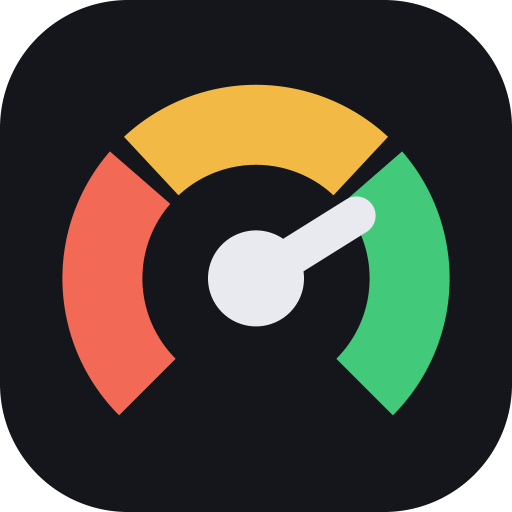
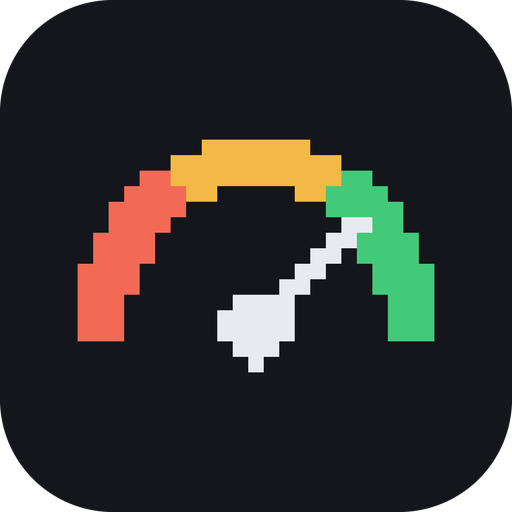
Пиксельные логотипы: сайт и разделы Мнение, Колесо, Тир-листы
- /art/logo/*.svg: пиксельные логотипы на настоящей сетке (из концепта Higgsfield), спидометр сайта сохранён
- фавиконки: общая (favicon.svg/.ico, иконки телефона и приложения, ?v=3) и свои у Мнения, Колеса (и лотов) и Тир-листов
- логотип в шапке главной, значки в карточках разделов, значок над заголовком страниц разделов (.title-logo в base.css)
- «Что нового» 1.15: абзац про логотипы

diff --git a/index.html b/index.html
@@ -14,9 +14,9 @@
 <meta property="og:image:height" content="630">
 <meta name="twitter:card" content="summary_large_image">
 <title>Казуал Хаб</title>
-<link rel="icon" href="/favicon.ico?v=2" sizes="48x48">
-<link rel="icon" type="image/svg+xml" href="/favicon.svg?v=2">
-<link rel="apple-touch-icon" href="/apple-touch-icon.png?v=2">
+<link rel="icon" href="/favicon.ico?v=3" sizes="48x48">
+<link rel="icon" type="image/svg+xml" href="/favicon.svg?v=3">
+<link rel="apple-touch-icon" href="/apple-touch-icon.png?v=3">
 <link rel="manifest" href="/site.webmanifest">
 <link rel="preconnect" href="https://fonts.googleapis.com">
 <link rel="preconnect" href="https://fonts.gstatic.com" crossorigin>
@@ -230,14 +230,11 @@ h1, h2, p { margin: 0; }
 .top { display: flex; flex-wrap: wrap; align-items: center; justify-content: space-between; gap: 12px; animation: drop-in .6s var(--out) backwards; }
 @keyframes drop-in { from { transform: translateY(-16px); } }
 .mark { display: inline-flex; align-items: center; gap: 10px; font-family: var(--font-display); font-weight: 700; font-size: 22px; text-decoration: none; letter-spacing: .02em; border-radius: 10px; }
-.mark svg { width: 32px; height: 32px; transition: transform .5s var(--spring); }
-.mark:hover svg { transform: rotate(-8deg) scale(1.08); }
-/* The logo assembles itself: the scale draws from red to green, then the needle swings over to green */
-.mark .lg-arc { stroke-dasharray: 1; animation: lg-draw .3s ease-out backwards; }
-.mark .lg-arc:nth-child(1) { animation-delay: .1s; } .mark .lg-arc:nth-child(2) { animation-delay: .25s; } .mark .lg-arc:nth-child(3) { animation-delay: .4s; }
-@keyframes lg-draw { from { stroke-dashoffset: 1; } }
-.mark .lg-needle { transform-box: view-box; transform-origin: 16px 17.4px; animation: lg-swing .8s var(--spring) .35s backwards; }
-@keyframes lg-swing { from { transform: rotate(-190deg); } }
+.mark img { width: 32px; height: 32px; transition: transform .5s var(--spring); }
+.mark:hover img { transform: rotate(-8deg) scale(1.08); }
+/* пиксельный логотип (/art/logo/hub.svg) появляется ступенькой, как спрайт */
+.mark img { animation: lg-pop .5s steps(3, jump-end) .1s backwards; }
+@keyframes lg-pop { from { transform: scale(.4); opacity: 0; } }
 .online-chip { cursor: default; }
 .user-bar { display: flex; flex-wrap: wrap; align-items: center; justify-content: flex-end; gap: 8px; flex: 1 1 auto; } /* прижата вправо и под логотипом: кнопку «Что нового» не двигает то, что дорисовывается левее */
 #account { display: contents; }
@@ -344,7 +341,7 @@ h1, h2, p { margin: 0; }
   .hero-art i:nth-child(4) { --mx: 140px; --my: 6px; --ms: 38px; }
   .hero-art i:nth-child(n+5) { display: none; }
 }
-@media (prefers-reduced-motion: reduce) { .hero-art i { animation: none; } }
+@media (prefers-reduced-motion: reduce) { .hero-art i, .mark img { animation: none; } }
 html.unslop .hero-art i { animation: none; filter: none; }
 
 /* App cards: a live preview on top, the name under it, the footer with counters */
@@ -517,7 +514,7 @@ html.unslop .hero-art i { animation: none; filter: none; }
 .feed-empty a { color: var(--accent); font-weight: 600; }
 
 .app-icon { width: 52px; height: 52px; border-radius: 14px; display: grid; place-items: center; transition: transform .5s var(--spring); }
-.app-icon svg { width: 100%; height: 100%; }
+.app-icon img { width: 100%; height: 100%; }
 .app:hover .app-icon { transform: rotate(-6deg) scale(1.06); }
 .app-text { display: grid; gap: 4px; min-width: 0; align-content: start; }
 .app-name { font-family: var(--font-display); font-weight: 800; font-size: clamp(32px, 4.2vw, 42px); line-height: .9; }
@@ -614,7 +611,7 @@ html.unslop body::before { display: none; }
 <div class="page">
   <header class="top">
     <a class="mark" href="/" aria-label="Казуал Хаб, главная">
-      <svg viewBox="0 0 32 32" aria-hidden="true"><rect width="32" height="32" rx="8" fill="#14161C"/><g fill="none" stroke-width="5"><path class="lg-arc" pathLength="1" d="M9.21 24.19A9.6 9.6 0 0 1 8.75 11.1" stroke="#F26A55"/><path class="lg-arc" pathLength="1" d="M9.45 10.38A9.6 9.6 0 0 1 22.55 10.38" stroke="#F2BA44"/><path class="lg-arc" pathLength="1" d="M23.25 11.1A9.6 9.6 0 0 1 22.79 24.19" stroke="#43C97A"/></g><g class="lg-needle"><path d="M16 17.4L22.28 13.48" fill="none" stroke="#E8EAF0" stroke-width="2.4" stroke-linecap="round"/><circle cx="16" cy="17.4" r="3" fill="#E8EAF0"/></g></svg>
+      <img src="/art/logo/hub.svg" width="32" height="32" alt="">
       casualhub
     </a>
     <div class="user-bar">
@@ -655,7 +652,7 @@ html.unslop body::before { display: none; }
     <a class="app" href="/opinion/">
       <span class="glow" aria-hidden="true"><i></i></span>
       <span class="pv pv-board" id="mnPreview" aria-hidden="true"></span>
-      <span class="app-icon" aria-hidden="true"><svg viewBox="0 0 256 256"><rect width="256" height="256" rx="58" fill="#14161C"/><rect x="34" y="104" width="38" height="48" rx="11" fill="#F26A55"/><rect x="80" y="104" width="38" height="48" rx="11" fill="#F2BA44"/><rect x="126" y="104" width="38" height="48" rx="11" fill="#43C97A"/><rect x="172" y="46" width="50" height="164" rx="16" fill="#43C97A"/><rect x="186" y="102" width="7" height="52" rx="3.5" fill="#14161C" fill-opacity=".5"/><rect x="201" y="102" width="7" height="52" rx="3.5" fill="#14161C" fill-opacity=".5"/></svg></span>
+      <span class="app-icon" aria-hidden="true"><img src="/art/logo/opinion.svg" width="52" height="52" alt=""></span>
       <span class="app-text">
         <span class="app-name">Мнение Казуала</span>
         <span class="app-desc">Игры, фильмы, еда, места или что угодно своё. Критерии, рейтинг, тиры, статистика и оценки друзей.</span>
@@ -667,7 +664,7 @@ html.unslop body::before { display: none; }
       <span class="pv pv-wheel" aria-hidden="true">
         <span class="wheel" id="wheel"></span>
       </span>
-      <span class="app-icon" aria-hidden="true"><svg viewBox="0 0 256 256"><rect width="256" height="256" rx="58" fill="#14161C"/><path d="M137.00 114.02L137.00 32.02A82 82 0 0 1 208.01 73.02Z" fill="#43C97A" stroke="#14161C" stroke-width="9" stroke-linejoin="round"/><path d="M122.00 140.00L193.01 99.00A82 82 0 0 1 193.01 181.00Z" fill="#F2BA44" stroke="#14161C" stroke-width="9" stroke-linejoin="round"/><path d="M122.00 140.00L193.01 181.00A82 82 0 0 1 122.00 222.00Z" fill="#F26A55" stroke="#14161C" stroke-width="9" stroke-linejoin="round"/><path d="M122.00 140.00L122.00 222.00A82 82 0 0 1 50.99 181.00Z" fill="#43C97A" stroke="#14161C" stroke-width="9" stroke-linejoin="round"/><path d="M122.00 140.00L50.99 181.00A82 82 0 0 1 50.99 99.00Z" fill="#F2BA44" stroke="#14161C" stroke-width="9" stroke-linejoin="round"/><path d="M122.00 140.00L50.99 99.00A82 82 0 0 1 122.00 58.00Z" fill="#F26A55" stroke="#14161C" stroke-width="9" stroke-linejoin="round"/><circle cx="122" cy="140" r="22" fill="#8C9BFF" stroke="#14161C" stroke-width="9"/></svg></span>
+      <span class="app-icon" aria-hidden="true"><img src="/art/logo/wheel.svg" width="52" height="52" alt=""></span>
       <span class="app-text">
         <span class="app-name">Колесо Казуала</span>
         <span class="app-desc">На выбывание или один победитель с одной прокрутки, шансы у всех равные. Своя музыка, стикеры в центре и лоты по ссылке: друзья предлагают, колесо выбирает.</span>
@@ -677,7 +674,7 @@ html.unslop body::before { display: none; }
     <a class="app" href="/tierlist/">
       <span class="glow" aria-hidden="true"><i></i></span>
       <span class="pv pv-tiers" aria-hidden="true"><span class="pv-tier"><i style="background:#43C97A"></i><span><b style="--j:0"></b><b style="--j:1"></b><b style="--j:2"></b></span></span><span class="pv-tier"><i style="background:#F2BA44"></i><span><b style="--j:0"></b><b style="--j:1"></b><b style="--j:2"></b><b style="--j:3"></b><b style="--j:4"></b></span></span><span class="pv-tier"><i style="background:#F28E4C"></i><span><b style="--j:0"></b><b style="--j:1"></b></span></span><span class="pv-tier"><i style="background:#F26A55"></i><span><b style="--j:0"></b><b style="--j:1"></b><b style="--j:2"></b><b style="--j:3"></b></span></span></span>
-      <span class="app-icon" aria-hidden="true"><svg viewBox="0 0 256 256"><rect width="256" height="256" rx="58" fill="#14161C"/><rect x="36" y="44" width="52" height="48" rx="11" fill="#43C97A"/><rect x="100" y="44" width="120" height="48" rx="11" fill="#3A3F4B"/><rect x="36" y="104" width="52" height="48" rx="11" fill="#F2BA44"/><rect x="100" y="104" width="84" height="48" rx="11" fill="#3A3F4B"/><rect x="36" y="164" width="52" height="48" rx="11" fill="#F26A55"/><rect x="100" y="164" width="48" height="48" rx="11" fill="#3A3F4B"/></svg></span>
+      <span class="app-icon" aria-hidden="true"><img src="/art/logo/tierlist.svg" width="52" height="52" alt=""></span>
       <span class="app-text">
         <span class="app-name">Тир-листы Казуала</span>
         <span class="app-desc">Свои картинки, текст, оценки или стикеры. Разложи по рядам, покажи друзьям и скачай картинкой.</span>

diff --git a/whatsnew.html b/whatsnew.html
@@ -25,6 +25,7 @@
                   <p><b><img class="wn-emo" src="/wheel/hub/roflan/roflan-158.webp" alt="" loading="lazy" decoding="async">Зверёк в пустых местах</b> Пока нет оценок, друзей, тир-листов или лотов, вместо пустой рамки встречает пиксельный зверёк в шарфе и подсказывает, с чего начать.</p>
                   <p><b><img class="wn-emo" src="/wheel/hub/roflan/roflan-159.png" alt="" loading="lazy" decoding="async">Фоны профиля</b> Готовы шесть пиксельных фонов для шапки профиля: закат, ночь с луной, город, лес, уютная комната и северное сияние «Легенда». Выбрать их можно будет во вкладке «Оформление», когда она откроется.</p>
                   <p><b><img class="wn-emo" src="/wheel/hub/roflan/roflan-160.png" alt="" loading="lazy" decoding="async">Мелочи</b> Выделенный текст и курсор в полях ввода теперь цвета темы, а рамка вокруг кнопок при управлении с клавиатуры стала заметнее.</p>
+                  <p><b><img class="wn-emo" src="/wheel/hub/roflan/roflan-161.png" alt="" loading="lazy" decoding="async">Новые логотипы</b> Логотип сайта стал пиксельным: тот же спидометр из красного, жёлтого и зелёного. У «Мнения», «Колеса» и «Тир-листов» теперь свои значки: столбики оценок, колесо и ряды тир-листа. Они стоят над заголовком страницы, в карточках на главной и на вкладке браузера, так что открытые разделы легко различить.</p>
                 </div>
               </article>
             </section>

diff --git a/tierlist/index.html b/tierlist/index.html
@@ -13,9 +13,9 @@
 <meta property="og:image:width" content="1200">
 <meta property="og:image:height" content="630">
 <meta name="twitter:card" content="summary_large_image">
-<link rel="icon" href="/favicon.ico?v=2" sizes="48x48">
-<link rel="icon" type="image/svg+xml" href="/favicon.svg?v=2">
-<link rel="apple-touch-icon" href="/apple-touch-icon.png?v=2">
+<link rel="icon" href="/art/logo/tierlist.ico?v=3" sizes="48x48">
+<link rel="icon" type="image/svg+xml" href="/art/logo/tierlist.svg?v=3">
+<link rel="apple-touch-icon" href="/art/logo/tierlist-touch.png?v=3">
 <style>
 :root{color-scheme:light;padding-top:env(safe-area-inset-top,0px);padding-bottom:env(safe-area-inset-bottom,0px)}
 html{scroll-padding-top:env(safe-area-inset-top,0px)}
@@ -625,6 +625,7 @@ html.unslop::before { display: none; }
 <div class="page">
   <header class="masthead">
     <div>
+      <img class="title-logo" src="/art/logo/tierlist.svg" width="56" height="56" alt="">
       <h1 class="title">Тир-листы Казуала</h1>
       <p class="lede">Собери свой тир-лист из чего угодно: загрузи картинки, впиши текст, возьми свои оценки или стикеры. Разложи по рядам, покажи друзьям и скачай картинкой.</p>
       <p class="scale tl-scale"><span class="vh">Ряды:</span><span><i style="background:#43C97A"></i>S</span><span><i style="background:#9BCF4E"></i>A</span><span><i style="background:#F2BA44"></i>B</span><span><i style="background:#F28E4C"></i>C</span><span><i style="background:#F26A55"></i>D</span></p>

diff --git a/opinion/index.html b/opinion/index.html
@@ -542,9 +542,9 @@ html.booting .layout, html.booting .mnav, html.booting .offline-bar { visibility
 }
 .vis-box{margin-top:12px}.vis-hint{display:block;margin-top:6px;font-size:12.5px;color:var(--ink-3)}.e-take { margin: 2px 0 12px; }
 </style>
-<link rel="icon" href="/favicon.ico?v=2" sizes="48x48">
-<link rel="icon" type="image/svg+xml" href="/favicon.svg?v=2">
-<link rel="apple-touch-icon" href="/apple-touch-icon.png?v=2">
+<link rel="icon" href="/art/logo/opinion.ico?v=3" sizes="48x48">
+<link rel="icon" type="image/svg+xml" href="/art/logo/opinion.svg?v=3">
+<link rel="apple-touch-icon" href="/art/logo/opinion-touch.png?v=3">
 <script src="/util.js"></script>
 <script src="/i18n.js"></script>
 <script src="/opinion/head.js"></script>
@@ -1525,6 +1525,7 @@ html.intro .spark i:nth-child(3n) { animation-delay: .1s; }
 <div class="page">
   <header class="masthead">
     <div>
+      <img class="title-logo" src="/art/logo/opinion.svg" width="56" height="56" alt="">
       <h1 class="title">Мнение Казуала</h1>
       <p class="lede">Игры, фильмы, еда, места или что угодно своё. Создавай категории и критерии, ставь баллы от 1 до 10, добавляй фото и заметки. Рейтинг соберётся сам, а журнал запомнит каждое изменение.</p>
     <p class="scale"><span class="vh">Цвет итогового балла:</span>

diff --git a/whatsnew-en.html b/whatsnew-en.html
@@ -24,6 +24,7 @@
                   <p><b><img class="wn-emo" src="/wheel/hub/roflan/roflan-158.webp" alt="" loading="lazy" decoding="async">A little critter in empty places</b> When there are no ratings, friends, tier lists or lots yet, a pixel critter in a scarf greets you instead of an empty frame and hints where to start.</p>
                   <p><b><img class="wn-emo" src="/wheel/hub/roflan/roflan-159.png" alt="" loading="lazy" decoding="async">Profile backgrounds</b> Six pixel backgrounds for the profile header are ready: sunset, moonlit night, city, forest, a cozy room and the “Legend” aurora. You’ll pick them in the Look tab once it opens.</p>
                   <p><b><img class="wn-emo" src="/wheel/hub/roflan/roflan-160.png" alt="" loading="lazy" decoding="async">Small things</b> Selected text and the cursor in input fields now use the theme color, and the outline around buttons is easier to see when you use the keyboard.</p>
+                  <p><b><img class="wn-emo" src="/wheel/hub/roflan/roflan-161.png" alt="" loading="lazy" decoding="async">New logos</b> The site logo is now pixel art: the same gauge in red, yellow and green. Opinion, Wheel and Tier lists have their own icons too: rating bars, a wheel and tier rows. They sit above the page title, on the home page cards and in the browser tab, so open sections are easy to tell apart.</p>
                 </div>
               </article>
             </section>

diff --git a/wheel/index.html b/wheel/index.html
@@ -13,9 +13,9 @@
 <meta property="og:image:width" content="1200">
 <meta property="og:image:height" content="630">
 <meta name="twitter:card" content="summary_large_image">
-<link rel="icon" href="/favicon.ico?v=2" sizes="48x48">
-<link rel="icon" type="image/svg+xml" href="/favicon.svg?v=2">
-<link rel="apple-touch-icon" href="/apple-touch-icon.png?v=2">
+<link rel="icon" href="/art/logo/wheel.ico?v=3" sizes="48x48">
+<link rel="icon" type="image/svg+xml" href="/art/logo/wheel.svg?v=3">
+<link rel="apple-touch-icon" href="/art/logo/wheel-touch.png?v=3">
 <style>
 :root{color-scheme:light;padding-top:env(safe-area-inset-top,0px);padding-bottom:env(safe-area-inset-bottom,0px)}
 html{scroll-padding-top:env(safe-area-inset-top,0px)}
@@ -899,6 +899,7 @@ html.unslop::before { display: none; }
 <div class="page">
   <header class="masthead">
     <div>
+      <img class="title-logo" src="/art/logo/wheel.svg" width="56" height="56" alt="">
       <h1 class="title">Колесо Казуала</h1>
       <p class="lede">Колесо на выбывание. Каждый спин выпавший сектор вылетает, последний оставшийся забирает победу. Шансы у всех на колесе равные.</p>
     <p class="scale"><span class="vh">Цифры у каждого участника:</span>

diff --git a/admin/index.html b/admin/index.html
@@ -15,9 +15,9 @@
 <meta name="twitter:card" content="summary_large_image">
 <title>Админ-панель · Казуал Хаб</title>
 <meta name="robots" content="noindex, nofollow">
-<link rel="icon" href="/favicon.ico?v=2" sizes="48x48">
-<link rel="icon" type="image/svg+xml" href="/favicon.svg?v=2">
-<link rel="apple-touch-icon" href="/apple-touch-icon.png?v=2">
+<link rel="icon" href="/favicon.ico?v=3" sizes="48x48">
+<link rel="icon" type="image/svg+xml" href="/favicon.svg?v=3">
+<link rel="apple-touch-icon" href="/apple-touch-icon.png?v=3">
 <link rel="preconnect" href="https://fonts.googleapis.com">
 <link rel="preconnect" href="https://fonts.gstatic.com" crossorigin>
 <link rel="stylesheet" href="https://fonts.googleapis.com/css2?family=Handjet:wght@300..800&family=Onest:wght@400..700&display=block">

diff --git a/profile/index.html b/profile/index.html
@@ -14,9 +14,9 @@
 <meta property="og:image:height" content="630">
 <meta name="twitter:card" content="summary_large_image">
 <title>Профиль · Казуал Хаб</title>
-<link rel="icon" href="/favicon.ico?v=2" sizes="48x48">
-<link rel="icon" type="image/svg+xml" href="/favicon.svg?v=2">
-<link rel="apple-touch-icon" href="/apple-touch-icon.png?v=2">
+<link rel="icon" href="/favicon.ico?v=3" sizes="48x48">
+<link rel="icon" type="image/svg+xml" href="/favicon.svg?v=3">
+<link rel="apple-touch-icon" href="/apple-touch-icon.png?v=3">
 <link rel="preconnect" href="https://fonts.googleapis.com">
 <link rel="preconnect" href="https://fonts.gstatic.com" crossorigin>
 <link rel="stylesheet" href="https://fonts.googleapis.com/css2?family=Handjet:wght@300..800&family=Onest:wght@400..700&display=block">

diff --git a/lots/index.html b/lots/index.html
@@ -13,9 +13,9 @@
 <meta property="og:image:width" content="1200">
 <meta property="og:image:height" content="630">
 <meta name="twitter:card" content="summary_large_image">
-<link rel="icon" href="/favicon.ico?v=2" sizes="48x48">
-<link rel="icon" type="image/svg+xml" href="/favicon.svg?v=2">
-<link rel="apple-touch-icon" href="/apple-touch-icon.png?v=2">
+<link rel="icon" href="/art/logo/wheel.ico?v=3" sizes="48x48">
+<link rel="icon" type="image/svg+xml" href="/art/logo/wheel.svg?v=3">
+<link rel="apple-touch-icon" href="/art/logo/wheel-touch.png?v=3">
 <style>
 :root{color-scheme:light;padding-top:env(safe-area-inset-top,0px);padding-bottom:env(safe-area-inset-bottom,0px)}
 html{scroll-padding-top:env(safe-area-inset-top,0px)}

diff --git a/functions/r/[id].js b/functions/r/[id].js
@@ -122,8 +122,8 @@ function page(T, title, body, meta, tier) {
 <meta name="robots" content="noindex, nofollow">
 <title>${esc(title)}</title>
 ${meta || ''}
-<link rel="icon" href="/favicon.ico?v=2" sizes="48x48">
-<link rel="icon" type="image/svg+xml" href="/favicon.svg?v=2">
+<link rel="icon" href="/favicon.ico?v=3" sizes="48x48">
+<link rel="icon" type="image/svg+xml" href="/favicon.svg?v=3">
 <link rel="preconnect" href="https://fonts.googleapis.com">
 <link rel="preconnect" href="https://fonts.gstatic.com" crossorigin>
 <link rel="stylesheet" href="https://fonts.googleapis.com/css2?family=Handjet:wght@600..800&family=Onest:wght@400..700&display=swap">

diff --git a/base.css b/base.css
@@ -28,3 +28,5 @@ input, textarea, [contenteditable="true"] { caret-color: var(--accent, #3550E8);
 /* Пустые состояния: пиксельный зверёк из /art/empty-*.webp (CasualUtil.emptyArt) над подписью */
 .empty-art { display: block; max-width: 100%; height: auto; margin: 0 auto 10px; }
 .no-match:has(> .empty-art), .feed-empty:has(> .empty-art) { text-align: center; }
+/* значок раздела над заголовком страницы (пиксельный логотип из /art/logo) */
+.title-logo { display: block; width: clamp(44px, 6vw, 56px); height: auto; margin-bottom: 14px; }
